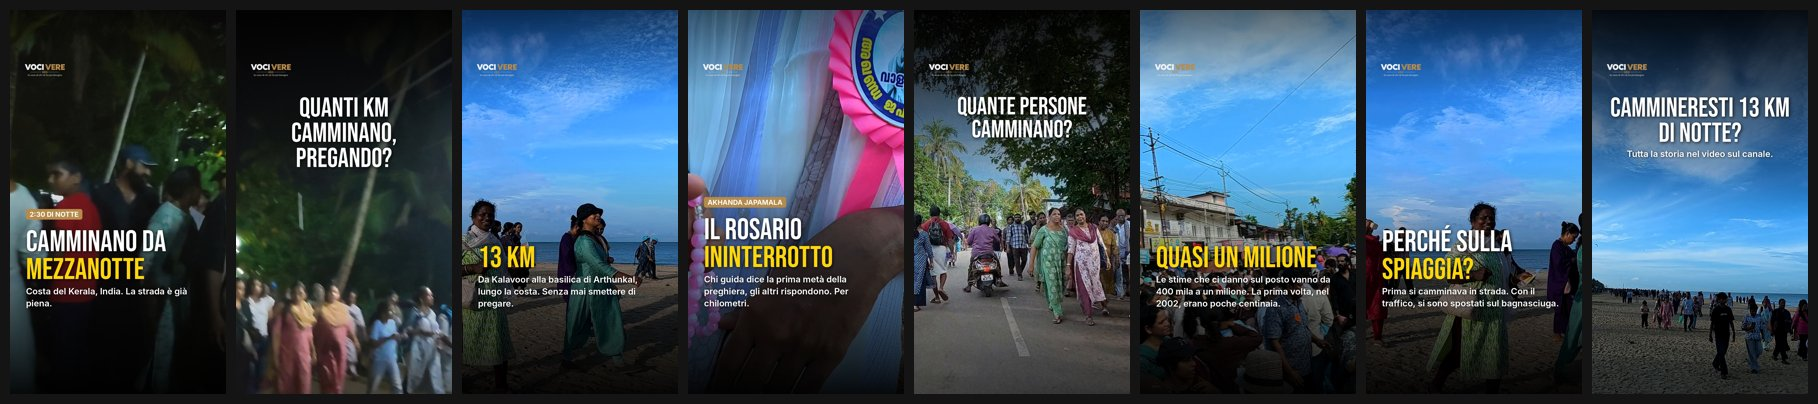
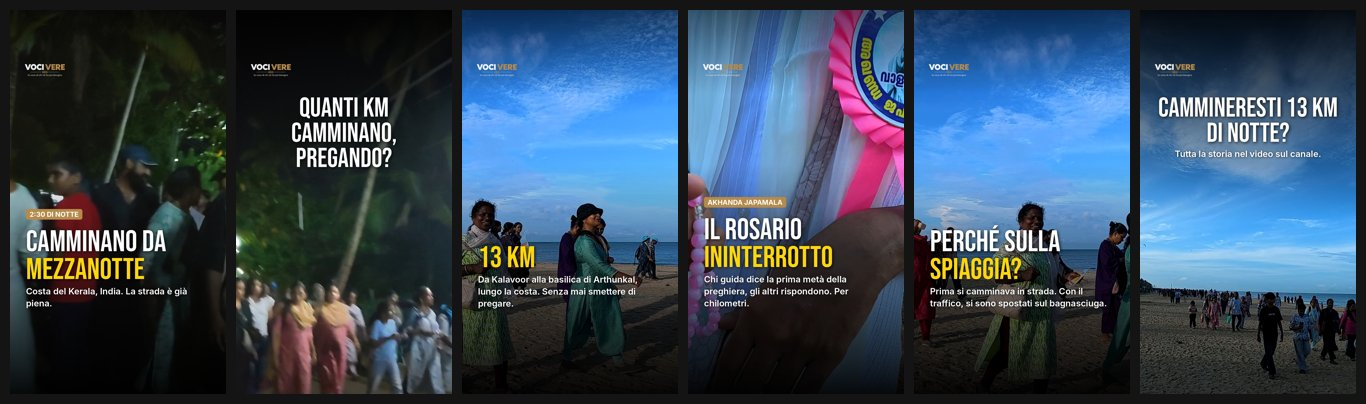
Copy: storie mercato e arthunkal in 3 set da 6, carosello I volti per mercato, arthunkal e te
Claude-Session: https://claude.ai/code/session_01Htfbh2CvydZZ9zskjMcc2c

diff --git a/copioni/caroselli/carosello_volti.py b/copioni/caroselli/carosello_volti.py
@@ -1,0 +1,129 @@
+# Carosello "I volti" (Manuel, 4/11): il secondo carosello di ogni lungo, solo primi piani delle persone.
+# 1 copertina (il volto più forte + "I volti di ...") + 5 volti + chiusura "Segui Voci Vere" con il logo.
+# Filtro Voci Vere: opaco (neri sollevati), chiaro, avvolgente (bagliore morbido, tono caldo oro, vignetta leggera).
+# 4:5 1080x1350, testo e logo dentro il quadrato centrale 1080x1080 (YouTube ritaglia a quadrato).
+#   python3 copioni/caroselli/carosello_volti.py [mercato|arthunkal|te]
+# Fotogrammi in work/volti/f/ (estratti dal lungo e dal girato su Drive, elenco in work/volti/f/sources.txt;
+# sorgenti scritte qui sotto per poterli rifare).
+import os, sys
+import numpy as np
+from PIL import Image, ImageDraw, ImageFont, ImageFilter
+W, H = 1080, 1350
+SQ0, SQ1 = 135, 1215          # quadrato centrale visibile anche su YouTube
+TIT = 'assets/fonts/VVTitolo-PoppinsExtraBold.ttf'
+BODY = '/usr/share/fonts/opentype/inter/Inter-SemiBold.otf'
+LOGO = 'assets/brand/logo_vocivere_trasparente_chiaro.png'
+GOLD = (182, 138, 75)
+F = 'work/volti/f/'
+
+# (file, cx, cy, h): centro del ritaglio e altezza in frazioni del fotogramma.
+# Nei fotogrammi dal lungo i sottotitoli impressi stanno all'85-90% dell'altezza: il ritaglio resta sopra.
+V = {
+ 'mercato': dict(kicker='MARARI, KERALA, INDIA', title='I volti del mercato del pesce',
+   cover=('m01.jpg', .53, .42, .72, 'Prepara le reti per la prossima uscita'),   # lungo v6, 54 s
+   faces=[('mx_90.jpg', .47, .52, .56, 'Pescatore da trent\'anni'),                # lungo, 90 s
+          ('m04.jpg', .50, .52, .60, 'Ci ha portati al mercato'),                  # lungo, 234 s
+          ('mx_197.jpg', .64, .40, .66, 'All\'asta, sulla sabbia'),                # lungo, 197 s
+          ('m09.jpg', .49, .40, .66, 'Il pesce appena arrivato'),                  # girato 0124, 2.5 s
+          ('m10.jpg', .60, .50, .62, 'Si sceglie a mano')]),                       # girato 0120, 4 s
+ 'arthunkal': dict(kicker='ARTHUNKAL, KERALA, INDIA', title='I volti del pellegrinaggio',
+   cover=('a10.jpg', .80, .50, .80, 'Elizabeth, 26 anni, la prima volta'),         # girato 0247, 1 s
+   faces=[('a02.jpg', .60, .40, .72, 'All\'arrivo, ad Arthunkal'),                 # girato 0301
+          ('a05.jpg', .68, .42, .70, 'Sulla spiaggia, all\'alba'),                 # lungo, 120 s
+          ('a07.jpg', .52, .48, .70, 'In strada, dopo 13 km'),                     # lungo, 228 s
+          ('a09.jpg', .52, .48, .80, 'Verso la basilica'),                         # girato 0293
+          ('a11.jpg', .66, .40, .74, 'Camminano insieme')]),                       # lungo, 166 s
+ 'te': dict(kicker='MUNNAR, KERALA, INDIA', title='I volti del tè',
+   cover=('t01.jpg', .60, .40, .72, 'Sadish, di Munnar'),                          # lungo, 66 s
+   faces=[('t07.jpg', .76, .44, .80, 'Sadish, tra i filari'),                      # girato 0384
+          ('t03.jpg', .45, .42, .78, 'Sul bus verso Munnar'),                      # girato 0348
+          ('t04.jpg', .44, .40, .78, 'Lungo la strada per Munnar'),                # girato 0334
+          ('t09.jpg', .26, .50, .80, 'Shaharon, al chiosco del chai'),             # lungo, 351 s
+          ('t06.jpg', .16, .58, .70, 'Sul bus, tra le curve')]),                   # girato 0342
+}
+
+def crop45(path, cx, cy, h):
+    im = Image.open(F + path).convert('RGB'); w0, h0 = im.size
+    ch = int(h0 * h); cw = int(ch * 4 / 5)
+    x = int(min(max(cx * w0 - cw / 2, 0), w0 - cw)); y = int(min(max(cy * h0 - ch / 2, 0), h0 - ch))
+    return im.crop((x, y, x + cw, y + ch)).resize((W, H), Image.LANCZOS)
+
+def vv_filter(im):
+    a = np.asarray(im).astype(np.float32) / 255
+    lum = a @ np.array([.299, .587, .114], np.float32)
+    a = a * 0.80 + lum[..., None] * 0.20                       # un po' meno saturo
+    a = 0.11 + 0.84 * a                                        # neri sollevati: opaco
+    g = np.array(GOLD, np.float32) / 255
+    a = a * (1 - 0.14) + (a * g * 1.6) * 0.14                  # velo caldo oro
+    blur = np.asarray(Image.fromarray((np.clip(a, 0, 1) * 255).astype('uint8')).filter(ImageFilter.GaussianBlur(28))).astype(np.float32) / 255
+    a = 1 - (1 - a) * (1 - blur * 0.28)                        # bagliore morbido (screen): avvolgente
+    a = a * 1.03 + 0.02                                        # più chiaro
+    yy, xx = np.mgrid[0:H, 0:W]; r = np.sqrt(((xx - W / 2) / (W / 2)) ** 2 + ((yy - H / 2) / (H / 2)) ** 2)
+    a = a * (1 - np.clip(r - 0.75, 0, 1)[..., None] * 0.30)    # vignetta leggera
+    rng = np.random.default_rng(7); a = a + rng.normal(0, 0.012, (H, W, 1)).astype(np.float32)
+    return Image.fromarray((np.clip(a, 0, 1) * 255).astype('uint8'))
+
+def shade(im, y0, y1, op):  # sfuma verso il nero dal basso del quadrato
+    g = np.zeros((H, W), np.float32); y = np.arange(H)[:, None]
+    g = np.clip((y - y0) / (y1 - y0), 0, 1) * op
+    m = Image.fromarray((np.broadcast_to(g, (H, W)) * 255).astype('uint8'))
+    return Image.composite(Image.new('RGB', (W, H), (12, 10, 8)), im, m)
+
+def text_sh(im, xy, t, font, fill, anchor='la', r=6):
+    sh = Image.new('RGBA', im.size, (0, 0, 0, 0)); ImageDraw.Draw(sh).text((xy[0] + 2, xy[1] + 3), t, font=font, fill=(0, 0, 0, 170), anchor=anchor)
+    im.alpha_composite(sh.filter(ImageFilter.GaussianBlur(r))); ImageDraw.Draw(im).text(xy, t, font=font, fill=fill, anchor=anchor)
+
+def wrap(d, t, f, mw):
+    out, line = [], ''
+    for w in t.split():
+        s = (line + ' ' + w).strip()
+        if d.textlength(s, font=f) <= mw: line = s
+        else: out.append(line); line = w
+    return out + [line]
+
+def logo(im, w=170, y=SQ0 + 34, x=60):
+    l = Image.open(LOGO).convert('RGBA'); l = l.crop(l.getbbox()); l = l.resize((w, int(l.height * w / l.width)), Image.LANCZOS)
+    im.alpha_composite(l, (x, y))
+
+def caption(im, t):
+    d = ImageDraw.Draw(im); f = ImageFont.truetype(BODY, 36); y = SQ1 - 70
+    tw = d.textlength(t, font=f); d.rectangle((60, y + 8, 66, y + 44), fill=GOLD)
+    text_sh(im, (84, y + 26), t, f, (255, 255, 255), anchor='lm')
+
+def cover(v):
+    c = V[v]; f, cx, cy, h, cap = c['cover']
+    im = shade(vv_filter(crop45(f, cx, cy, h)), SQ1 - 470, SQ1 + 40, 0.82).convert('RGBA')
+    d = ImageDraw.Draw(im); ft = ImageFont.truetype(TIT, 92); fk = ImageFont.truetype(BODY, 30); fc = ImageFont.truetype(BODY, 34)
+    lines = wrap(d, c['title'].upper(), ft, W - 120); y = SQ1 - 70 - len(lines) * 98 - 56
+    kw = d.textlength(c['kicker'], font=fk); d.rounded_rectangle((60, y - 62, 60 + kw + 32, y - 12), radius=8, fill=GOLD)
+    d.text((76, y - 37), c['kicker'], font=fk, fill=(255, 255, 255), anchor='lm')
+    for i, t in enumerate(lines): text_sh(im, (60, y + i * 98), t, ft, (255, 255, 255) if i < len(lines) - 1 else (235, 196, 128), r=8)
+    y += len(lines) * 98 + 14
+    text_sh(im, (60, y), cap, fc, (240, 236, 228)); text_sh(im, (W - 60, y), 'Scorri →', fc, (240, 236, 228), anchor='ra')
+    logo(im); return im
+
+def face(f, cx, cy, h, cap):
+    im = shade(vv_filter(crop45(f, cx, cy, h)), SQ1 - 260, SQ1 + 20, 0.55).convert('RGBA')
+    caption(im, cap); logo(im, 130); return im
+
+def closing(v):
+    f, cx, cy, h, _ = V[v]['cover']
+    im = vv_filter(crop45(f, cx, cy, h)).filter(ImageFilter.GaussianBlur(14))
+    im = Image.blend(im, Image.new('RGB', (W, H), (14, 11, 8)), 0.55).convert('RGBA')
+    l = Image.open(LOGO).convert('RGBA'); l = l.crop(l.getbbox()); lw = 640; l = l.resize((lw, int(l.height * lw / l.width)), Image.LANCZOS)
+    y = 470; im.alpha_composite(l, ((W - lw) // 2, y))
+    d = ImageDraw.Draw(im); ft = ImageFont.truetype(TIT, 60); y += l.height + 70
+    for t in ['SEGUI VOCI VERE', 'PER SCOPRIRE', 'LE PROSSIME STORIE']:
+        text_sh(im, (W // 2, y), t, ft, (255, 255, 255) if t != 'SEGUI VOCI VERE' else (235, 196, 128), anchor='ma'); y += 74
+    return im
+
+def build(v):
+    out = f'copioni/caroselli/{v}_volti'; os.makedirs(out, exist_ok=True)
+    for x in os.listdir(out): os.remove(os.path.join(out, x))
+    sl = [cover(v)] + [face(*x) for x in V[v]['faces']] + [closing(v)]
+    for i, im in enumerate(sl, 1): im.convert('RGB').save(f'{out}/{i:02d}.jpg', quality=93)
+    th = [im.convert('RGB').resize((216, 270)) for im in sl]; G = Image.new('RGB', (226 * len(th) + 10, 290), (20, 20, 20))
+    for i, t in enumerate(th): G.paste(t, (10 + i * 226, 10))
+    G.save(f'copioni/caroselli/{v}_volti_anteprima.jpg', quality=85)
+
+for v in (sys.argv[1:] or V): build(v)

diff --git a/copioni/stories/stories.py b/copioni/stories/stories.py
@@ -92,48 +92,59 @@ def build(video,name,items):
     G.save(f'copioni/stories/{video}_{name}_anteprima.jpg',quality=85)
 
 M,A,T='mercato','arthunkal','te'
+MB1,MB2,MB3,AT1,AT2=262,270,348,320,312  # fotogrammi nuovi (4/11)
 ONLY=sys.argv[1:]  # es. python3 copioni/stories/stories.py te
 _build=build
 def build(video,*a):
     if not ONLY or video in ONLY: _build(video,*a)
-build(M,'set1_mercato',[
- dict(video=M,t=220,kicker='MARARI, KERALA',title='Un mercato del pesce senza tetto',body='Né banchi, né muri. Solo la spiaggia, le barche e chi compra.',crop=(.5,1,.5)),
+# mercato e arthunkal: rifatti in 3 set da 6 (Manuel 4/11)
+build(M,'set1_giornata',[
+ dict(video=M,t=124,kicker='MARARI, KERALA',title='Fa il pescatore da 30 anni',body='Lo incontriamo sulla spiaggia, seduto sulla sua barca.',crop=(.42,1,.5)),
  dict(video=M,t=73,kind='ask',title='A che ora si sveglia un pescatore qui?',hl=0,crop=(.5,1,.5),tsize=130),
- dict(video=M,t=157,title='Alle 3 di notte',body='Alle 4 è già in mare. Alle 8 il pesce arriva qui, sulla spiaggia.',crop=(.4,1,.5)),
+ dict(video=M,t=157,title='Alle 3 di notte',body='Alle 4 è già in mare. Alle 8 il pesce arriva al mercato, sulla spiaggia.',crop=(.4,1,.5)),
+ dict(video=M,t=88,title='Non è il suo unico lavoro',body='Fa anche la guida in kayak, tra i canali dietro la spiaggia. E ci dice che gli piace di più.',crop=(.5,1,.5)),
+ dict(video=M,t=136,title='«Un posto in pace»',body='Cristiani, induisti, musulmani: qui vivono insieme, ci racconta.',crop=(.42,1,.5)),
+ dict(video=M,t=82,kind='ask',title='Cosa chiederesti a un pescatore di Marari?',body='Scrivilo qui sotto.',hl=0,crop=(.45,1,.5),tsize=124),
+])
+build(M,'set2_mercato',[
+ dict(video=M,t=220,kicker='MARARI, KERALA',title='Un mercato del pesce senza tetto',body='Né banchi, né muri. Solo la spiaggia, le barche e chi compra.',crop=(.5,1,.5)),
  dict(video=M,t=223,title='L\'asta si fa sulla sabbia',body='Arriva la barca, tutti si avvicinano, e si comincia a trattare.',crop=(.5,1,.5)),
  dict(video=M,t=226,kind='ask',title='Quanto pesava il pesce più grande della mattina?',hl=0,crop=(.5,1,.5),tsize=124),
  dict(video=M,t=280,title='50-55 chili',body='"Veramente come una persona." Ce l\'hanno detto lì, al mercato.',crop=(.55,1,.5)),
  dict(video=M,t=289,title='Tutto va veloce',body='Ghiaccio nei cesti: il pesce deve partire finché è fresco.',crop=(.4,1,.5)),
  dict(video=M,t=334,kind='ask',title='Com\'è il mercato del pesce dove vivi tu?',body='Raccontamelo qui sotto. Tutta la storia nel video sul canale.',hl=0,crop=(.5,1,.5),tsize=130),
 ])
-build(M,'set2_persone',[
- dict(video=M,t=124,kicker='MARARI, KERALA',title='Fa il pescatore da 30 anni',body='Lo incontriamo sulla spiaggia, seduto sulla sua barca.',crop=(.42,1,.5)),
- dict(video=M,t=88,title='Non è il suo unico lavoro',body='Fa anche la guida in kayak, tra i canali dietro la spiaggia. E ci dice che gli piace di più.',crop=(.5,1,.5)),
- dict(video=M,t=136,title='«Un posto in pace»',body='Cristiani, induisti, musulmani: qui vivono insieme, ci racconta.',crop=(.42,1,.5)),
+build(M,'set3_mare',[
+ dict(video=M,t=MB1,kind='ask',title='Quanto restano in mare le barche più grandi?',hl=0,crop=(.5,1,.5),tsize=124),
+ dict(video=M,t=MB2,title='Fino a due giorni',body='Le barche piccole invece vanno e tornano ogni giorno. Qui il mare lo chiamano Arabian Sea.',crop=(.5,1,.5)),
  dict(video=M,t=145,title='Due giorni senza pesca',body='Succede durante la festa, ci racconta. E il cibo è gratis per chiunque arrivi.',crop=(.4,1,.5)),
  dict(video=M,t=307,kind='ask',title='Come si chiama questo pane del Kerala?',hl=0,crop=(.45,1,.5),tsize=130),
  dict(video=M,t=313,title='Porotta',body='Il pane sfogliato del Kerala, fatto al momento: la colazione dopo il mercato.',crop=(.4,1,.5)),
- dict(video=M,t=82,kind='ask',title='Cosa chiederesti a un pescatore di Marari?',body='Scrivilo qui sotto: le domande migliori le porto nei prossimi video.',hl=0,crop=(.45,1,.5),tsize=124),
+ dict(video=M,t=MB3,kind='ask',title='Ti alzeresti alle 3 per andare in mare?',body='Tutta la storia nel video sul canale.',hl=0,crop=(.5,1,.5),tsize=130),
 ])
 build(A,'set1_cammino',[
  dict(video=A,t=79,kicker='2:30 DI NOTTE',title='Camminano da mezzanotte',body='Costa del Kerala, India. La strada è già piena.',crop=(.4,1,.5)),
  dict(video=A,t=88,kind='ask',title='Quanti km camminano, pregando?',hl=0,crop=(.5,1,.5),tsize=136),
  dict(video=A,t=97,title='13 km',body='Da Kalavoor alla basilica di Arthunkal, lungo la costa. Senza mai smettere di pregare.',crop=(.55,1,.5)),
  dict(video=A,t=140,kicker='AKHANDA JAPAMALA',title='Il rosario ininterrotto',body='Chi guida dice la prima metà della preghiera, gli altri rispondono. Per chilometri.',crop=(.72,1,.5)),
- dict(video=A,t=19,kind='ask',title='Quante persone camminano?',hl=0,crop=(.5,1,.5),tsize=124),
- dict(video=A,t=304,title='Quasi un milione',body='Le stime che ci danno sul posto vanno da 400 mila a un milione. La prima volta, nel 2002, erano poche centinaia.',crop=(.5,1,.5)),
  dict(video=A,t=34,title='Perché sulla spiaggia?',body='Prima si camminava in strada. Con il traffico, si sono spostati sul bagnasciuga.',crop=(.45,1,.5)),
  dict(video=A,t=1,kind='ask',title='Cammineresti 13 km di notte?',body='Tutta la storia nel video sul canale.',hl=0,crop=(.55,1,.5),tsize=136),
 ])
-build(A,'set2_storie',[
+build(A,'set2_persone',[
+ dict(video=A,t=19,kind='ask',title='Quante persone camminano?',hl=0,crop=(.5,1,.5),tsize=124),
+ dict(video=A,t=304,title='Quasi un milione',body='Le stime che ci danno sul posto vanno da 400 mila a un milione. La prima volta, nel 2002, erano poche centinaia.',crop=(.5,1,.5)),
  dict(video=A,t=256,kicker='SULLA STRADA',title='C\'è anche chi non cammina',body='Pentoloni e bicchieri d\'acqua: cibo e acqua gratis a chiunque passa.',crop=(.45,1,.5)),
  dict(video=A,t=203.0,title='Elizabeth, 26 anni',body='Per lei è la prima volta. "È un atto di devozione alla Madonna."',crop=(.52,1,.5)),
  dict(video=A,t=169,title='Tutti insieme',body='Cammina chi è cristiano, e anche ragazzi musulmani. Ce lo raccontano loro.',crop=(.5,1,.5)),
- dict(video=A,t=316,kind='ask',title='Da dove arriva la statua di San Sebastiano di Arthunkal?',hl=0,crop=(.5,1,.5),tsize=118),
- dict(video=A,t=331,title='Da Milano, nel 1647',body='Arriva in una chiesa sul mare del Kerala, ricostruita nel 1584 da un gesuita italiano.',crop=(.45,1,.5)),
- dict(video=A,t=346,kind='ask',title='Come chiamano qui quel gesuita italiano?',hl=0,crop=(.5,1,.5),tsize=130),
- dict(video=A,t=349,kicker='VELUTHACHAN',title='Il padre bianco',body='Padre Giacomo Fenicio. Lo chiamano ancora così, più di 400 anni dopo.',crop=(.55,1,.5)),
  dict(video=A,t=289,kind='ask',title='Hai mai fatto un pellegrinaggio a piedi?',body='Raccontamelo qui sotto.',hl=0,crop=(.5,1,.5),tsize=130),
+])
+build(A,'set3_storia',[
+ dict(video=A,t=AT1,kind='ask',title='Quando arriva il cristianesimo in Kerala?',body='Secondo la tradizione.',hl=0,crop=(.5,1,.5),tsize=124),
+ dict(video=A,t=AT2,title='Nel 52 dopo Cristo',body='La tradizione dice che l\'abbia portato l\'apostolo Tommaso.',crop=(.5,1,.5)),
+ dict(video=A,t=346,kind='ask',title='Come chiamano qui il gesuita italiano che ricostruì questa chiesa?',hl=0,crop=(.5,1,.5),tsize=112),
+ dict(video=A,t=349,kicker='VELUTHACHAN',title='Il padre bianco',body='Padre Giacomo Fenicio, che la ricostruisce nel 1584. Lo chiamano ancora così.',crop=(.55,1,.5)),
+ dict(video=A,t=316,kind='ask',title='Da dove arriva la statua di San Sebastiano di Arthunkal?',hl=0,crop=(.5,1,.5),tsize=118),
+ dict(video=A,t=331,title='Da Milano, nel 1647',body='Da allora Arthunkal è un santuario. A gennaio la sua festa porta qui gente da tutto il Kerala.',crop=(.45,1,.5)),
 ])
 # te: 3 set da 6 (Manuel 29/10: 2 set da 10 sono troppi)
 build(T,'set1_raccolta',[

diff --git a/copioni/stories/storie_testi.md b/copioni/stories/storie_testi.md
@@ -1,52 +1,61 @@
 # Storie IG dei lunghi (Copy, 27/10)
 
-Due set per video, 9:16 (1080x1920), con i fotogrammi del lungo montato. Testi e logo fuori dalle zone coperte da IG.
+3 set da 6 per video (Manuel 29/10, confermato 4/11), 9:16 (1080x1920), con i fotogrammi del lungo montato. Testi e logo fuori dalle zone coperte da IG.
 Nelle storie con la domanda in alto lo spazio al centro resta libero: lì Manuel mette lo sticker (quiz, sondaggio o
 box domande). Nelle immagini c'è solo la domanda, mai la scritta "quiz" (Manuel, 27/10). La storia dopo dà la risposta. Nell'ultima storia di ogni set va bene anche lo sticker link al video.
 File: `copioni/stories/<video>/<set>/01-08.jpg`, su Drive in `montati/<video>/storie/`. Rigenerare:
 `python3 copioni/stories/stories.py` (lunghi in work/stories/, da Drive). Fatti solo dal lungo (VO e interviste).
 Quando: dopo l'uscita del lungo, un set per giorno, nei giorni senza reel o insieme (decide Pianificazione / Manuel).
 
-## Mercato
-### Set 1, il mercato (`mercato/set1_mercato`)
-1. Un mercato del pesce senza tetto
+## Mercato: 3 set da 6 (rifatti il 4/11, Manuel)
+### Set 1, la giornata del pescatore (`mercato/set1_giornata`)
+1. Fa il pescatore da 30 anni
 2. QUIZ "A che ora si sveglia un pescatore qui?" opzioni: 3:00 (giusta) / 5:00 / 7:00
 3. Risposta: alle 3 di notte, in mare alle 4, al mercato alle 8
-4. L'asta si fa sulla sabbia
-5. QUIZ "Quanto pesava il pesce più grande della mattina?" opzioni: 15 kg / 30 kg / 50 kg (giusta)
-6. Risposta: 50-55 chili, "veramente come una persona"
-7. Tutto va veloce (ghiaccio)
-8. BOX DOMANDE "Com'è il mercato del pesce dove vivi tu?" (+ link al video)
+4. Non è il suo unico lavoro: fa anche la guida in kayak tra i canali, e gli piace di più
+5. «Un posto in pace»: cristiani, induisti, musulmani
+6. BOX DOMANDE "Cosa chiederesti a un pescatore di Marari?"
 
-### Set 2, le persone (`mercato/set2_persone`, 7 storie)
-1. Fa il pescatore da 30 anni
-2. Non è il suo unico lavoro: fa anche la guida in kayak tra i canali, e gli piace di più (senza domanda, Manuel 27/10)
-3. «Un posto in pace»: cristiani, induisti, musulmani
-4. Due giorni senza pesca durante la festa, cibo gratis per chiunque arrivi
-5. QUIZ "Come si chiama questo pane del Kerala?" opzioni: Porotta (giusta) / Naan / Chapati
-6. Risposta: Porotta (nome corretto da Manuel, 27/10: porotta, non parotta)
-7. BOX DOMANDE "Cosa chiederesti a un pescatore di Marari?"
+### Set 2, il mercato (`mercato/set2_mercato`)
+1. Un mercato del pesce senza tetto
+2. L'asta si fa sulla sabbia
+3. QUIZ "Quanto pesava il pesce più grande della mattina?" opzioni: 15 kg / 30 kg / 50 kg (giusta)
+4. Risposta: 50-55 chili, "veramente come una persona"
+5. Tutto va veloce (ghiaccio)
+6. BOX DOMANDE "Com'è il mercato del pesce dove vivi tu?" (+ link al video)
 
-## Arthunkal
+### Set 3, il mare e la colazione (`mercato/set3_mare`)
+1. QUIZ "Quanto restano in mare le barche più grandi?" opzioni: Poche ore / Fino a 2 giorni (giusta) / Una settimana
+2. Risposta: fino a due giorni; le piccole vanno e tornano ogni giorno; qui lo chiamano Arabian Sea (dal lungo)
+3. Due giorni senza pesca durante la festa, cibo gratis per chiunque arrivi
+4. QUIZ "Come si chiama questo pane del Kerala?" opzioni: Porotta (giusta) / Naan / Chapati
+5. Risposta: Porotta
+6. SONDAGGIO "Ti alzeresti alle 3 per andare in mare?" Sì / No (+ link al video)
+
+## Arthunkal: 3 set da 6 (rifatti il 4/11, Manuel)
 ### Set 1, il cammino (`arthunkal/set1_cammino`)
 1. Camminano da mezzanotte (2:30 di notte)
 2. QUIZ "Quanti km camminano, pregando?" opzioni: 5 km / 13 km (giusta) / 30 km
 3. Risposta: 13 km, da Kalavoor ad Arthunkal
 4. Akhanda Japamala, il rosario ininterrotto
-5. QUIZ "Quante persone camminano?" opzioni: 10 mila / 100 mila / Quasi 1 milione (giusta)
-6. Risposta: quasi un milione. Le stime sul posto vanno da 400 mila a un milione (Manuel, 27/10); nel 2002 poche centinaia
-7. Perché sulla spiaggia: prima in strada, poi il traffico
-8. SONDAGGIO "Cammineresti 13 km di notte?" Sì / No (+ link al video)
+5. Perché sulla spiaggia: prima in strada, poi il traffico
+6. SONDAGGIO "Cammineresti 13 km di notte?" Sì / No (+ link al video)
 
-### Set 2, le persone e la storia (`arthunkal/set2_storie`)
-1. C'è anche chi non cammina: cibo e acqua gratis
-2. Elizabeth, 26 anni, la prima volta
-3. Tutti insieme: cristiani e ragazzi musulmani
-4. QUIZ "Da dove arriva la statua di San Sebastiano di Arthunkal?" opzioni: Roma / Milano (giusta) / Lisbona
-5. Risposta: da Milano, nel 1647
-6. QUIZ "Come chiamano qui quel gesuita italiano?" opzioni: Il padre bianco (giusta) / Il padre del mare / Il santo straniero
-7. Risposta: Veluthachan, il padre bianco (padre Giacomo Fenicio)
-8. BOX DOMANDE "Hai mai fatto un pellegrinaggio a piedi?"
+### Set 2, le persone (`arthunkal/set2_persone`)
+1. QUIZ "Quante persone camminano?" opzioni: 10 mila / 100 mila / Quasi 1 milione (giusta)
+2. Risposta: quasi un milione (stime sul posto da 400 mila a un milione); nel 2002 poche centinaia
+3. C'è anche chi non cammina: cibo e acqua gratis
+4. Elizabeth, 26 anni, la prima volta
+5. Tutti insieme: cristiani e ragazzi musulmani
+6. BOX DOMANDE "Hai mai fatto un pellegrinaggio a piedi?"
+
+### Set 3, la storia (`arthunkal/set3_storia`)
+1. QUIZ "Quando arriva il cristianesimo in Kerala? (secondo la tradizione)" opzioni: 52 d.C. (giusta) / 1498 / 1700
+2. Risposta: nel 52 dopo Cristo, con l'apostolo Tommaso, secondo la tradizione (dal lungo)
+3. QUIZ "Come chiamano qui il gesuita italiano che ricostruì questa chiesa?" opzioni: Il padre bianco (giusta) / Il padre del mare / Il santo straniero
+4. Risposta: Veluthachan, il padre bianco (padre Giacomo Fenicio, 1584)
+5. QUIZ "Da dove arriva la statua di San Sebastiano di Arthunkal?" opzioni: Roma / Milano (giusta) / Lisbona
+6. Risposta: da Milano, nel 1647; a gennaio la festa porta gente da tutto il Kerala (+ link al video)
 
 ## Te (dopo l'uscita del lungo, dom 15/11): 3 set da 6 (Manuel 29/10)
 ### Set 1, la raccolta (`te/set1_raccolta`)

diff --git a/copioni/caroselli/testi_caroselli.md b/copioni/caroselli/testi_caroselli.md
@@ -50,3 +50,48 @@ Il video completo è uscito sul canale, link in bio.
 Post YouTube (scheda Community):
 Affittate per 3.000 rupie l'anno 🇮🇳 Le colline del tè di Munnar, in Kerala: chi le raccoglie, e di chi sono oggi.
 Che tè bevi tu? Il video completo è sul canale.
+
+# Secondo carosello: "I volti" (Manuel, 4/11)
+Uno per ogni lungo, oltre al carosello dei fatti. Solo primi piani delle persone che Manuel ha girato (dal lungo e
+dal girato su Drive), con il filtro Voci Vere (opaco, chiaro, avvolgente, tono caldo). 7 slide 4:5: 01 copertina con
+il volto più forte + "I volti di ..." + luogo; 02-06 un volto per slide con una riga breve e vera (chi è o dove
+siamo); 07 logo + "Segui Voci Vere per scoprire le prossime storie". Testo e logo dentro il quadrato centrale.
+File: copioni/caroselli/<video>_volti/01-07.jpg, su Drive in montati/<video>/carosello_volti/.
+Rigenerare: `python3 copioni/caroselli/carosello_volti.py [video]` (fotogrammi in work/volti/f/, sorgenti nello script).
+Il chai master del tè NON c'è: non ha voluto parlare, quindi niente volto.
+
+## Mercato, i volti
+Posizione IG/YT: Marari Beach, Mararikulam (Alappuzha, Kerala)
+Didascalia IG:
+I volti del mercato del pesce di Marari 🇮🇳
+Chi prepara le reti, chi pesca da trent'anni, chi compra all'asta sulla sabbia. Ogni mattina, sulla costa del Kerala.
+Chi ti è rimasto in mente? Scrivilo nei commenti.
+Tutta la storia nel video sul canale, link in bio.
+#kerala #india #vocivere #marari #ritratti
+Post YouTube (stesse 7 immagini):
+I volti del mercato del pesce di Marari, in Kerala 🇮🇳 Chi pesca, chi vende, chi compra all'asta sulla sabbia.
+Tutta la storia nel video: [link al lungo]
+
+## Arthunkal, i volti
+Posizione IG/YT: St. Andrew's Basilica, Arthunkal (Alappuzha, Kerala)
+Didascalia IG:
+I volti del pellegrinaggio di Arthunkal 🇮🇳
+13 km a piedi, di notte, lungo la costa del Kerala fino alla basilica. Elizabeth, 26 anni, era qui per la prima volta.
+Chi ti è rimasto in mente? Scrivilo nei commenti.
+Tutta la storia nel video sul canale, link in bio.
+#kerala #india #vocivere #arthunkal #ritratti
+Post YouTube:
+I volti del pellegrinaggio di Arthunkal, in Kerala 🇮🇳 13 km a piedi, di notte, fino alla basilica.
+Tutta la storia nel video: [link al lungo]
+
+## Te, i volti
+Posizione IG/YT: Munnar, Kerala
+Didascalia IG:
+I volti del tè di Munnar 🇮🇳
+Sadish, che ci ha portati tra i filari, e chi abbiamo incontrato sulla strada per arrivarci, in Kerala.
+Chi ti è rimasto in mente? Scrivilo nei commenti.
+Tutta la storia nel video sul canale, link in bio.
+#kerala #india #vocivere #munnar #ritratti
+Post YouTube:
+I volti del tè di Munnar, in Kerala 🇮🇳 Sadish tra i filari, e chi abbiamo incontrato lungo la strada.
+Tutta la storia nel video: [link al lungo]

diff --git a/regole/copy.md b/regole/copy.md
@@ -78,6 +78,12 @@ Caroselli e storie (Manuel, 29/10, riferimenti latiumani e Progetto Happiness; p
   le virgolette oro, una foto che continua dalla slide prima (nella seconda: il resto della foto + nero con la
   citazione). 2-3 slide video con il testo che compare (per il post YouTube il loro fotogramma .jpg).
 - Storie: 3 set da 6 per ogni lungo (non 2 da 10, non 2 set: confermato da Manuel il 4/11). Solo la domanda, mai la scritta "quiz".
+- PACCHETTO DI OGNI LUNGO (Manuel, 4/11): 3 set di storie da 6, 2 caroselli, 1 teaser, 3 reel.
+- Secondo carosello "I volti" (Manuel, 4/11): solo primi piani delle persone girate (dal lungo e dal girato su Drive),
+  filtro Voci Vere opaco, chiaro e avvolgente; copertina con il volto più forte e "I volti di ..." (es. "I volti del
+  mercato del pesce"), 5 volti con una riga breve e vera, ultima slide logo + "Segui Voci Vere per scoprire le
+  prossime storie" (chiusura chiesta da Manuel). Generatore `copioni/caroselli/carosello_volti.py`, testi in
+  `copioni/caroselli/testi_caroselli.md`. Niente volti di chi non ha voluto parlare.
 - Caroselli anche su YouTube (Manuel, 4/11): ogni carosello esce anche come post YouTube, con il link al lungo nel testo. Insights poi controlla i numeri.
 
 Chiusura dei verticali (Manuel, 29/10, primo esempio: meenakshi): frase **Ascolta altre voci, su** + logo Voci Vere

diff --git a/piano/calendario.md b/piano/calendario.md
@@ -218,3 +218,9 @@ Giorni liberi per loro: 8/11, 13/11, 24/11, 27/11, 6/12, 10/12, 12/12, 13/12, 15
 
 Nota da Pianificazione, 4/11 (Manuel): cocco e canna di comorin escono anche loro su entrambi i profili (personale e Voci Vere). Quindi tutti i reel mainstream (panni, autostop, cocco, canna) vanno su entrambi; le date 26/11 e 2/12 non sono più condizionate.
 Nota da Pianificazione, 4/11 (Manuel): strategia. Prima si pubblica (anche contenuti più leggeri), poi si dà al profilo una forma professionale e da "Voci Vere". Lo scopo principale, da non dimenticare: DARE VOCE A CHI NE HA PIU' BISOGNO. Ogni lungo e ogni tema nuovo (coir, migranti, ONG) va verificato contro questa frase.
+Nota da Copy, 4/11 sera (Manuel): PACCHETTO DI OGNI LUNGO = 1 teaser, 1 lungo, 3 reel, 2 caroselli, 3 set di stories da 6.
+Il secondo carosello è "I volti" (primi piani delle persone, chiusura "Segui Voci Vere"): pronto per mercato, arthunkal
+e te su Drive in montati/<video>/carosello_volti/. Stories di mercato e arthunkal rifatte in 3 set da 6 (Drive
+montati/<video>/storie/), te già 3x6. Tutti i caroselli escono anche come post YouTube con il link al lungo.
+Da mettere nel calendario: il carosello dei volti (mai nel giorno del lungo, né lo stesso giorno dell'altro carosello)
+e il terzo giorno di stories per ogni lungo.
